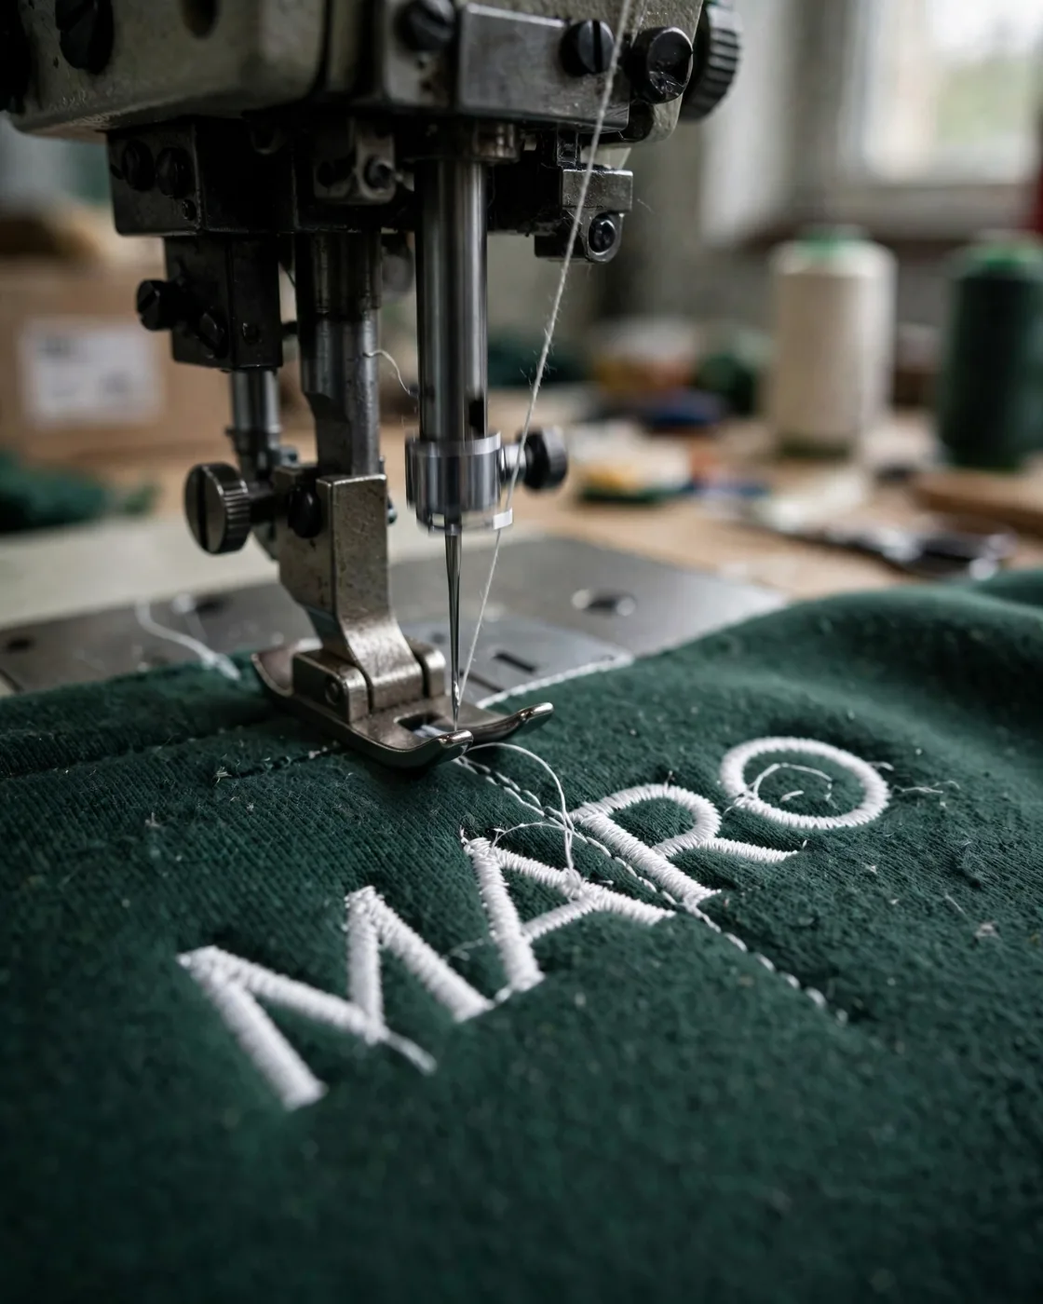
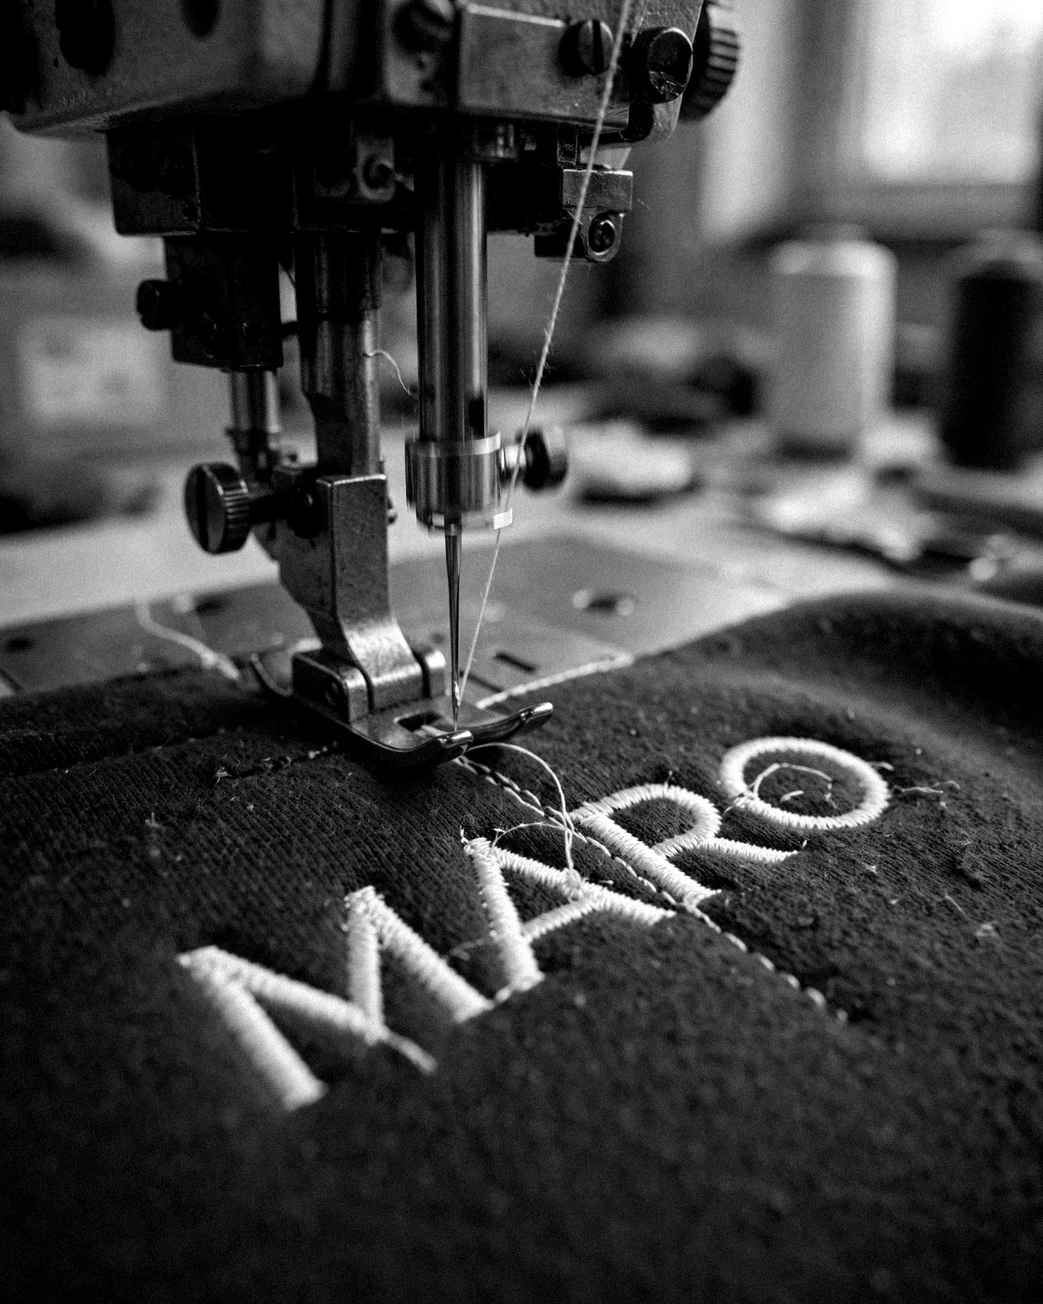
feat(brand): apertura con le Dolomiti, pagina riordinata a blocchi alternati; scene in bianco e nero, colore solo sui prodotti

diff --git a/storia.html b/storia.html
@@ -11,8 +11,8 @@
 <link rel="preconnect" href="https://fonts.googleapis.com">
 <link rel="preconnect" href="https://fonts.gstatic.com" crossorigin>
 <link rel="stylesheet" href="https://fonts.googleapis.com/css2?family=Anton&family=Archivo:wght@400;500;600;700&display=swap">
-<link rel="stylesheet" href="assets/css/maro.css?v=14">
-<script defer src="assets/js/maro.js?v=14"></script>
+<link rel="stylesheet" href="assets/css/maro.css?v=15">
+<script defer src="assets/js/maro.js?v=15"></script>
 </head>
 <body>
 <svg width="0" height="0" style="position:absolute" aria-hidden="true"><defs>
@@ -38,58 +38,55 @@
 </header>
 <main id="contenuto">
 
-<section class="st-apertura" aria-labelledby="st-titolo">
-  <div class="st-apertura-testo">
+<section class="st-hero" aria-labelledby="st-titolo">
+  <figure class="st-hero-foto"><img src="assets/foto/scena-dolomiti.webp" width="2048" height="1152" alt="Due ragazzi con felpe MARO di spalle davanti alle Dolomiti" fetchpriority="high" sizes="100vw"></figure>
+  <div class="st-hero-testo">
     <p class="occhiello">Il brand</p>
     <h1 id="st-titolo">Fly with<br>your mind.</h1>
     <p class="st-lead">MARO è streetwear nato a Milano. Capi essenziali, linee pulite, un segno che si riconosce da lontano. Per chi vive la città ogni giorno <strong>e tiene la testa alta.</strong></p>
   </div>
-  <div class="st-apertura-foto"><img src="assets/foto/storia-apertura-colonna.webp" width="767" height="1209" alt="La firma MARO su una colonna della metro di Milano" fetchpriority="high" sizes="(min-width: 960px) 40vw, 100vw"></div>
 </section>
 
-<section class="st-capitolo" aria-labelledby="st-c1">
-  <div class="st-num" aria-hidden="true">01</div>
+<section class="st-blocco st-chiaro" aria-labelledby="st-c1">
   <div class="st-testo">
+    <div class="st-num" aria-hidden="true">01</div>
     <h2 id="st-c1">Il segno</h2>
     <p>Una M, due ali. È il simbolo che firma ogni capo MARO: sul petto delle polo, sui cartellini, sulle etichette.</p>
     <p>Accanto vive la firma verticale, con le sue fiamme. La usiamo in grande, sulla schiena, dove deve farsi vedere.</p>
   </div>
-  <div class="st-confronto">
+  <div class="st-media st-confronto">
     <figure class="st-simbolo"><svg viewBox="0 0 200 150" role="img" aria-label="Il simbolo MARO: una M con due ali"><use href="#maro-simbolo"/></svg><figcaption>Il simbolo</figcaption></figure>
     <figure class="st-firma"><svg viewBox="0 0 200 560" role="img" aria-label="La firma verticale MARO con le fiamme"><use href="#maro-firma"/></svg><figcaption>La firma</figcaption></figure>
   </div>
 </section>
 
-<section class="st-manifesto" aria-labelledby="st-c2">
-  <div class="st-manifesto-testo">
-  <div class="st-num" aria-hidden="true">02</div>
-  <h2 id="st-c2">Testa alta.<br>Sempre.</h2>
-  <p>“Fly with your mind” non è una frase da stampare. È un modo di stare in città: lavoro, metro, notti lunghe, e la testa sempre un passo avanti. <strong>Le ali servono a questo.</strong></p>
-  </div>
-  <figure class="st-manifesto-foto"><img src="assets/foto/scena-orizzonte.webp" width="1120" height="1400" alt="Ragazzo con felpa MARO di spalle in cima a una montagna guarda il tramonto" loading="lazy" decoding="async" sizes="(min-width: 960px) 40vw, 100vw"></figure>
-</section>
-
-<section class="banda banda-brand" aria-label="Fly with your mind">
-  <figure><img src="assets/foto/scena-dolomiti.webp" width="2048" height="1152" alt="Due ragazzi con felpe MARO di spalle davanti alle Dolomiti al tramonto" loading="lazy" decoding="async" sizes="100vw"><figcaption>Fly with your mind</figcaption></figure>
-</section>
-
-<section class="st-capitolo st-inverso" aria-labelledby="st-c3">
-  <div class="st-num" aria-hidden="true">03</div>
+<section class="st-blocco st-scuro st-inverso" aria-labelledby="st-c2">
   <div class="st-testo">
+    <div class="st-num" aria-hidden="true">02</div>
+    <h2 id="st-c2">Testa alta.<br>Sempre.</h2>
+    <p>“Fly with your mind” non è una frase da stampare. È un modo di stare in città: lavoro, metro, notti lunghe, e la testa sempre un passo avanti. <strong>Le ali servono a questo.</strong></p>
+  </div>
+  <figure class="st-media"><img src="assets/foto/scena-orizzonte.webp" width="1120" height="1400" alt="Ragazzo con felpa MARO di spalle in cima a una montagna guarda l’orizzonte" loading="lazy" decoding="async" sizes="(min-width: 960px) 45vw, 100vw"></figure>
+</section>
+
+<section class="st-blocco st-grigio" aria-labelledby="st-c3">
+  <div class="st-testo">
+    <div class="st-num" aria-hidden="true">03</div>
     <h2 id="st-c3">Rispetto</h2>
     <p>La stretta di mano è il secondo segno di MARO. Due persone, un patto: rispetto per chi hai accanto.</p>
     <p>In strada vale più di qualsiasi logo. Per questo l’abbiamo stampata in grande, sulla schiena della felpa grigia.</p>
     <a class="link" href="felpa-stretta.html">Felpa Stretta di mano</a>
   </div>
-  <figure class="st-grafica"><img src="assets/foto/storia-stretta-di-mano.webp" width="1206" height="1345" alt="Due ragazzi si stringono la mano in un parco di Milano, uno indossa una felpa MARO" loading="lazy" decoding="async" sizes="(min-width: 960px) 40vw, 100vw"></figure>
+  <figure class="st-media"><img src="assets/foto/storia-stretta-di-mano.webp" width="1206" height="1345" alt="Due ragazzi si stringono la mano in un parco di Milano, uno indossa una felpa MARO" loading="lazy" decoding="async" sizes="(min-width: 960px) 45vw, 100vw"></figure>
 </section>
 
 <section class="st-valori" aria-labelledby="st-c4">
-  <div class="st-processo-testa"><div class="st-num" aria-hidden="true">04</div><h2 id="st-c4">Come lavoriamo</h2></div>
+  <div class="st-num" aria-hidden="true">04</div>
+  <h2 id="st-c4">Come lavoriamo</h2>
   <ul>
-    <li><figure><img src="assets/foto/scena-citta.webp" width="1120" height="1400" alt="Ragazzo con felpa verde MARO di spalle in un parco di Milano" loading="lazy" decoding="async" sizes="(min-width: 960px) 30vw, 100vw"></figure><span class="st-passo">01</span><h3>Disegnato a Milano</h3><p>Ogni grafica nasce in studio e si prova su ogni capo, da vicino e da lontano, prima di andare in produzione.</p></li>
-    <li><figure><img src="assets/foto/scena-ricamo-vicino.webp" width="1120" height="1400" alt="Una macchina ricama la scritta MARO su una felpa verde" loading="lazy" decoding="async" sizes="(min-width: 960px) 30vw, 100vw"></figure><span class="st-passo">02</span><h3>Ricamato dove conta</h3><p>Simbolo e firma sono ricamati sulle polo: restano nel tempo, lavaggio dopo lavaggio.</p></li>
-    <li><figure><img src="assets/foto/scena-showroom.webp" width="1120" height="1400" alt="Felpa verde, felpa blu e polo nera MARO appese in uno showroom scuro" loading="lazy" decoding="async" sizes="(min-width: 960px) 30vw, 100vw"></figure><span class="st-passo">03</span><h3>Solo drop</h3><p>Niente collezioni di stagione. Pochi pezzi, quando sono pronti. Quando finiscono, finiscono.</p></li>
+    <li><figure><img src="assets/foto/scena-citta.webp" width="1120" height="1400" alt="Ragazzo con felpa MARO di spalle in un parco di Milano" loading="lazy" decoding="async" sizes="(min-width: 960px) 30vw, 100vw"></figure><span class="st-passo">01</span><h3>Disegnato a Milano</h3><p>Ogni grafica nasce in studio e si prova su ogni capo, da vicino e da lontano, prima di andare in produzione.</p></li>
+    <li><figure><img src="assets/foto/scena-ricamo-vicino.webp" width="1120" height="1400" alt="Una macchina ricama la scritta MARO su una felpa" loading="lazy" decoding="async" sizes="(min-width: 960px) 30vw, 100vw"></figure><span class="st-passo">02</span><h3>Ricamato dove conta</h3><p>Simbolo e firma sono ricamati sulle polo: restano nel tempo, lavaggio dopo lavaggio.</p></li>
+    <li><figure><img src="assets/foto/scena-showroom.webp" width="1120" height="1400" alt="Felpe e polo MARO appese in uno showroom scuro" loading="lazy" decoding="async" sizes="(min-width: 960px) 30vw, 100vw"></figure><span class="st-passo">03</span><h3>Solo drop</h3><p>Niente collezioni di stagione. Pochi pezzi, quando sono pronti. Quando finiscono, finiscono.</p></li>
   </ul>
 </section>
 

diff --git a/_build/build.js b/_build/build.js
@@ -3,7 +3,7 @@ const fs = require('fs'), path = require('path');
 const ROOT = path.resolve(__dirname, '..');
 const CATALOGO = require('./catalogo');
 const MISURE = require('./foto-misure.json');
-const V = '14'; // versione di css/js: aumentarla a ogni modifica pubblicata
+const V = '15'; // versione di css/js: aumentarla a ogni modifica pubblicata
 
 // controllo: ogni foto in un solo punto del sito (le foto dei capi appartengono al loro capo)
 const usate = new Map();
@@ -363,58 +363,55 @@ ${domanda('Quando ricevo il rimborso?', 'Entro 14 giorni da quando il capo ci ar
 // ---------- STORIA (testi provvisori: da completare con le parole del fondatore) ----------
 function storia() {
   const corpo = `
-<section class="st-apertura" aria-labelledby="st-titolo">
-  <div class="st-apertura-testo">
+<section class="st-hero" aria-labelledby="st-titolo">
+  <figure class="st-hero-foto">${img('scena-dolomiti', 'Due ragazzi con felpe MARO di spalle davanti alle Dolomiti', { dove: 'brand apertura', lazy: false, sizes: '100vw' })}</figure>
+  <div class="st-hero-testo">
     <p class="occhiello">Il brand</p>
     <h1 id="st-titolo">Fly with<br>your mind.</h1>
     <p class="st-lead">MARO è streetwear nato a Milano. Capi essenziali, linee pulite, un segno che si riconosce da lontano. Per chi vive la città ogni giorno <strong>e tiene la testa alta.</strong></p>
   </div>
-  <div class="st-apertura-foto">${img('storia-apertura-colonna', 'La firma MARO su una colonna della metro di Milano', { dove: 'storia apertura', lazy: false, sizes: '(min-width: 960px) 40vw, 100vw' })}</div>
 </section>
 
-<section class="st-capitolo" aria-labelledby="st-c1">
-  <div class="st-num" aria-hidden="true">01</div>
+<section class="st-blocco st-chiaro" aria-labelledby="st-c1">
   <div class="st-testo">
+    <div class="st-num" aria-hidden="true">01</div>
     <h2 id="st-c1">Il segno</h2>
     <p>Una M, due ali. È il simbolo che firma ogni capo MARO: sul petto delle polo, sui cartellini, sulle etichette.</p>
     <p>Accanto vive la firma verticale, con le sue fiamme. La usiamo in grande, sulla schiena, dove deve farsi vedere.</p>
   </div>
-  <div class="st-confronto">
+  <div class="st-media st-confronto">
     <figure class="st-simbolo"><svg viewBox="0 0 200 150" role="img" aria-label="Il simbolo MARO: una M con due ali"><use href="#maro-simbolo"/></svg><figcaption>Il simbolo</figcaption></figure>
     <figure class="st-firma"><svg viewBox="0 0 200 560" role="img" aria-label="La firma verticale MARO con le fiamme"><use href="#maro-firma"/></svg><figcaption>La firma</figcaption></figure>
   </div>
 </section>
 
-<section class="st-manifesto" aria-labelledby="st-c2">
-  <div class="st-manifesto-testo">
-  <div class="st-num" aria-hidden="true">02</div>
-  <h2 id="st-c2">Testa alta.<br>Sempre.</h2>
-  <p>“Fly with your mind” non è una frase da stampare. È un modo di stare in città: lavoro, metro, notti lunghe, e la testa sempre un passo avanti. <strong>Le ali servono a questo.</strong></p>
-  </div>
-  <figure class="st-manifesto-foto">${img('scena-orizzonte', 'Ragazzo con felpa MARO di spalle in cima a una montagna guarda il tramonto', { dove: 'brand manifesto', sizes: '(min-width: 960px) 40vw, 100vw' })}</figure>
-</section>
-
-<section class="banda banda-brand" aria-label="Fly with your mind">
-  <figure>${img('scena-dolomiti', 'Due ragazzi con felpe MARO di spalle davanti alle Dolomiti al tramonto', { dove: 'brand banda', sizes: '100vw' })}<figcaption>Fly with your mind</figcaption></figure>
-</section>
-
-<section class="st-capitolo st-inverso" aria-labelledby="st-c3">
-  <div class="st-num" aria-hidden="true">03</div>
+<section class="st-blocco st-scuro st-inverso" aria-labelledby="st-c2">
   <div class="st-testo">
+    <div class="st-num" aria-hidden="true">02</div>
+    <h2 id="st-c2">Testa alta.<br>Sempre.</h2>
+    <p>“Fly with your mind” non è una frase da stampare. È un modo di stare in città: lavoro, metro, notti lunghe, e la testa sempre un passo avanti. <strong>Le ali servono a questo.</strong></p>
+  </div>
+  <figure class="st-media">${img('scena-orizzonte', 'Ragazzo con felpa MARO di spalle in cima a una montagna guarda l’orizzonte', { dove: 'brand testa alta', sizes: '(min-width: 960px) 45vw, 100vw' })}</figure>
+</section>
+
+<section class="st-blocco st-grigio" aria-labelledby="st-c3">
+  <div class="st-testo">
+    <div class="st-num" aria-hidden="true">03</div>
     <h2 id="st-c3">Rispetto</h2>
     <p>La stretta di mano è il secondo segno di MARO. Due persone, un patto: rispetto per chi hai accanto.</p>
     <p>In strada vale più di qualsiasi logo. Per questo l’abbiamo stampata in grande, sulla schiena della felpa grigia.</p>
     <a class="link" href="felpa-stretta.html">Felpa Stretta di mano</a>
   </div>
-  <figure class="st-grafica">${img('storia-stretta-di-mano', 'Due ragazzi si stringono la mano in un parco di Milano, uno indossa una felpa MARO', { dove: 'storia rispetto', sizes: '(min-width: 960px) 40vw, 100vw' })}</figure>
+  <figure class="st-media">${img('storia-stretta-di-mano', 'Due ragazzi si stringono la mano in un parco di Milano, uno indossa una felpa MARO', { dove: 'brand rispetto', sizes: '(min-width: 960px) 45vw, 100vw' })}</figure>
 </section>
 
 <section class="st-valori" aria-labelledby="st-c4">
-  <div class="st-processo-testa"><div class="st-num" aria-hidden="true">04</div><h2 id="st-c4">Come lavoriamo</h2></div>
+  <div class="st-num" aria-hidden="true">04</div>
+  <h2 id="st-c4">Come lavoriamo</h2>
   <ul>
-    <li><figure>${img('scena-citta', 'Ragazzo con felpa verde MARO di spalle in un parco di Milano', { dove: 'brand lavoro', sizes: '(min-width: 960px) 30vw, 100vw' })}</figure><span class="st-passo">01</span><h3>Disegnato a Milano</h3><p>Ogni grafica nasce in studio e si prova su ogni capo, da vicino e da lontano, prima di andare in produzione.</p></li>
-    <li><figure>${img('scena-ricamo-vicino', 'Una macchina ricama la scritta MARO su una felpa verde', { dove: 'brand lavoro', sizes: '(min-width: 960px) 30vw, 100vw' })}</figure><span class="st-passo">02</span><h3>Ricamato dove conta</h3><p>Simbolo e firma sono ricamati sulle polo: restano nel tempo, lavaggio dopo lavaggio.</p></li>
-    <li><figure>${img('scena-showroom', 'Felpa verde, felpa blu e polo nera MARO appese in uno showroom scuro', { dove: 'brand lavoro', sizes: '(min-width: 960px) 30vw, 100vw' })}</figure><span class="st-passo">03</span><h3>Solo drop</h3><p>Niente collezioni di stagione. Pochi pezzi, quando sono pronti. Quando finiscono, finiscono.</p></li>
+    <li><figure>${img('scena-citta', 'Ragazzo con felpa MARO di spalle in un parco di Milano', { dove: 'brand lavoro', sizes: '(min-width: 960px) 30vw, 100vw' })}</figure><span class="st-passo">01</span><h3>Disegnato a Milano</h3><p>Ogni grafica nasce in studio e si prova su ogni capo, da vicino e da lontano, prima di andare in produzione.</p></li>
+    <li><figure>${img('scena-ricamo-vicino', 'Una macchina ricama la scritta MARO su una felpa', { dove: 'brand lavoro', sizes: '(min-width: 960px) 30vw, 100vw' })}</figure><span class="st-passo">02</span><h3>Ricamato dove conta</h3><p>Simbolo e firma sono ricamati sulle polo: restano nel tempo, lavaggio dopo lavaggio.</p></li>
+    <li><figure>${img('scena-showroom', 'Felpe e polo MARO appese in uno showroom scuro', { dove: 'brand lavoro', sizes: '(min-width: 960px) 30vw, 100vw' })}</figure><span class="st-passo">03</span><h3>Solo drop</h3><p>Niente collezioni di stagione. Pochi pezzi, quando sono pronti. Quando finiscono, finiscono.</p></li>
   </ul>
 </section>
 

diff --git a/_build/foto.js b/_build/foto.js
@@ -43,15 +43,14 @@ const LAVORI = [
   { out: 'categoria-polo', src: 'mockup-ai/polo-nere-tre.jpg', crop: [1330, 50, 620, 775] },
   { out: 'categoria-felpe', src: 'foto-reali/felpa-grigia-parete-verde.jpg', crop: [65, 0, 1076, 1345] },
   // pagina Storia (bianco e nero con grana, proporzioni originali; lo schizzo resta a colori)
-  { out: 'storia-apertura-colonna', src: 'mockup-ai/metro-insegna-colonna.jpg', bn: true },
   // scene (set 5 del 12/10): campagna e pagina del brand, a colori, senza tagli
-  { out: 'scena-ricamo-mani', src: 'foto-set-5-2026-10-12/845684221_1655451425975308_3820682003388145130_n.webp' },
-  { out: 'scena-capi-maro', src: 'foto-set-5-2026-10-12/846966136_2610599519436733_3385366467222422541_n.webp' },
-  { out: 'scena-orizzonte', src: 'foto-set-5-2026-10-12/846053658_1783488912923974_9001021024052174187_n.webp' },
-  { out: 'scena-dolomiti', src: 'foto-set-5-2026-10-12/845962368_1854137572601714_822437747464123275_n.webp', max: 2048, q: 0.86 },
-  { out: 'scena-citta', src: 'foto-set-5-2026-10-12/846613319_4604241063165391_3335941884249520016_n.webp' },
-  { out: 'scena-ricamo-vicino', src: 'foto-set-5-2026-10-12/846671117_924186993887815_3303255480979063179_n.webp' },
-  { out: 'scena-showroom', src: 'foto-set-5-2026-10-12/840312014_28569449039377509_7023473326715691606_n.webp' },
+  { out: 'scena-ricamo-mani', src: 'foto-set-5-2026-10-12/845684221_1655451425975308_3820682003388145130_n.webp', bn: true },
+  { out: 'scena-capi-maro', src: 'foto-set-5-2026-10-12/846966136_2610599519436733_3385366467222422541_n.webp', bn: true },
+  { out: 'scena-orizzonte', src: 'foto-set-5-2026-10-12/846053658_1783488912923974_9001021024052174187_n.webp', bn: true },
+  { out: 'scena-dolomiti', src: 'foto-set-5-2026-10-12/845962368_1854137572601714_822437747464123275_n.webp', max: 2048, q: 0.86, bn: true },
+  { out: 'scena-citta', src: 'foto-set-5-2026-10-12/846613319_4604241063165391_3335941884249520016_n.webp', bn: true },
+  { out: 'scena-ricamo-vicino', src: 'foto-set-5-2026-10-12/846671117_924186993887815_3303255480979063179_n.webp', bn: true },
+  { out: 'scena-showroom', src: 'foto-set-5-2026-10-12/840312014_28569449039377509_7023473326715691606_n.webp', bn: true },
   // campagna, storia, lookbook (bianco e nero con grana, proporzioni originali)
   { out: 'campagna-due-ragazzi', src: 'foto-reali/due-ragazzi-parco-ringhiera.jpg', bn: true },
   { out: 'storia-stretta-di-mano', src: 'foto-reali/stretta-di-mano-parco.jpg', bn: true },

diff --git a/assets/css/maro.css b/assets/css/maro.css
@@ -372,3 +372,30 @@ details > p { margin: 0 0 20px; }
 @media (max-width: 959px) {
   .iscriviti, .st-manifesto { grid-template-columns: 1fr; }
 }
+
+/* pagina del brand v3: apertura a tutta larghezza + blocchi alternati */
+.st-hero { position: relative; background: var(--nero); color: var(--bianco); }
+.st-hero-foto { margin: 0; position: relative; }
+.st-hero-foto img { width: 100%; }
+.st-hero-foto::after { content: ''; position: absolute; inset: 0; background: linear-gradient(90deg, rgba(0,0,0,.65) 0%, rgba(0,0,0,.25) 45%, rgba(0,0,0,0) 70%), linear-gradient(180deg, rgba(0,0,0,0) 45%, rgba(0,0,0,.55) 100%); }
+.st-hero-testo { position: absolute; z-index: 1; left: var(--lato); bottom: clamp(28px, 5vw, 72px); max-width: min(620px, 50%); }
+.st-hero .occhiello { font-size: 15px; font-weight: 700; letter-spacing: .14em; text-transform: uppercase; margin: 0 0 14px; }
+.st-hero h1 { font: 400 clamp(56px, 8vw, 132px)/.88 var(--titoli); text-transform: uppercase; text-shadow: 0 2px 30px rgba(0,0,0,.4); }
+.st-hero .st-lead { margin-top: 20px; text-shadow: 0 1px 14px rgba(0,0,0,.6); }
+.st-blocco { display: grid; grid-template-columns: minmax(0, 1fr) minmax(0, 1fr); grid-template-areas: 'testo media'; gap: clamp(28px, 5vw, 80px); align-items: center; padding: clamp(56px, 8vw, 120px) var(--lato); }
+.st-blocco.st-inverso { grid-template-areas: 'media testo'; }
+.st-blocco .st-testo { grid-area: testo; }
+.st-blocco .st-media { grid-area: media; margin: 0; }
+.st-blocco .st-media img { width: 100%; }
+.st-chiaro { background: var(--bianco); }
+.st-scuro { background: var(--nero); color: var(--bianco); }
+.st-scuro .st-num { color: #9a9a9a; }
+.st-scuro .st-testo p { color: #e6e6e6; }
+.st-scuro strong { color: var(--bianco); }
+.st-grigio { background: var(--grigio); }
+.st-valori > h2 { margin-bottom: 28px; }
+@media (max-width: 959px) {
+  .st-hero-testo { position: static; max-width: none; padding: 28px var(--lato) 40px; }
+  .st-hero-foto::after { display: none; }
+  .st-blocco, .st-blocco.st-inverso { grid-template-columns: 1fr; grid-template-areas: 'testo' 'media'; }
+}

diff --git a/index.html b/index.html
@@ -11,8 +11,8 @@
 <link rel="preconnect" href="https://fonts.googleapis.com">
 <link rel="preconnect" href="https://fonts.gstatic.com" crossorigin>
 <link rel="stylesheet" href="https://fonts.googleapis.com/css2?family=Anton&family=Archivo:wght@400;500;600;700&display=swap">
-<link rel="stylesheet" href="assets/css/maro.css?v=14">
-<script defer src="assets/js/maro.js?v=14"></script>
+<link rel="stylesheet" href="assets/css/maro.css?v=15">
+<script defer src="assets/js/maro.js?v=15"></script>
 </head>
 <body class="home">
 <svg width="0" height="0" style="position:absolute" aria-hidden="true"><defs>

diff --git a/aiuto.html b/aiuto.html
@@ -11,8 +11,8 @@
 <link rel="preconnect" href="https://fonts.googleapis.com">
 <link rel="preconnect" href="https://fonts.gstatic.com" crossorigin>
 <link rel="stylesheet" href="https://fonts.googleapis.com/css2?family=Anton&family=Archivo:wght@400;500;600;700&display=swap">
-<link rel="stylesheet" href="assets/css/maro.css?v=14">
-<script defer src="assets/js/maro.js?v=14"></script>
+<link rel="stylesheet" href="assets/css/maro.css?v=15">
+<script defer src="assets/js/maro.js?v=15"></script>
 </head>
 <body>
 <svg width="0" height="0" style="position:absolute" aria-hidden="true"><defs>

diff --git a/felpa-firma.html b/felpa-firma.html
@@ -11,8 +11,8 @@
 <link rel="preconnect" href="https://fonts.googleapis.com">
 <link rel="preconnect" href="https://fonts.gstatic.com" crossorigin>
 <link rel="stylesheet" href="https://fonts.googleapis.com/css2?family=Anton&family=Archivo:wght@400;500;600;700&display=swap">
-<link rel="stylesheet" href="assets/css/maro.css?v=14">
-<script defer src="assets/js/maro.js?v=14"></script>
+<link rel="stylesheet" href="assets/css/maro.css?v=15">
+<script defer src="assets/js/maro.js?v=15"></script>
 </head>
 <body>
 <svg width="0" height="0" style="position:absolute" aria-hidden="true"><defs>

diff --git a/felpa-stretta.html b/felpa-stretta.html
@@ -11,8 +11,8 @@
 <link rel="preconnect" href="https://fonts.googleapis.com">
 <link rel="preconnect" href="https://fonts.gstatic.com" crossorigin>
 <link rel="stylesheet" href="https://fonts.googleapis.com/css2?family=Anton&family=Archivo:wght@400;500;600;700&display=swap">
-<link rel="stylesheet" href="assets/css/maro.css?v=14">
-<script defer src="assets/js/maro.js?v=14"></script>
+<link rel="stylesheet" href="assets/css/maro.css?v=15">
+<script defer src="assets/js/maro.js?v=15"></script>
 </head>
 <body>
 <svg width="0" height="0" style="position:absolute" aria-hidden="true"><defs>

diff --git a/felpa-verticale.html b/felpa-verticale.html
@@ -11,8 +11,8 @@
 <link rel="preconnect" href="https://fonts.googleapis.com">
 <link rel="preconnect" href="https://fonts.gstatic.com" crossorigin>
 <link rel="stylesheet" href="https://fonts.googleapis.com/css2?family=Anton&family=Archivo:wght@400;500;600;700&display=swap">
-<link rel="stylesheet" href="assets/css/maro.css?v=14">
-<script defer src="assets/js/maro.js?v=14"></script>
+<link rel="stylesheet" href="assets/css/maro.css?v=15">
+<script defer src="assets/js/maro.js?v=15"></script>
 </head>
 <body>
 <svg width="0" height="0" style="position:absolute" aria-hidden="true"><defs>

diff --git a/polo-jacquard.html b/polo-jacquard.html
@@ -11,8 +11,8 @@
 <link rel="preconnect" href="https://fonts.googleapis.com">
 <link rel="preconnect" href="https://fonts.gstatic.com" crossorigin>
 <link rel="stylesheet" href="https://fonts.googleapis.com/css2?family=Anton&family=Archivo:wght@400;500;600;700&display=swap">
-<link rel="stylesheet" href="assets/css/maro.css?v=14">
-<script defer src="assets/js/maro.js?v=14"></script>
+<link rel="stylesheet" href="assets/css/maro.css?v=15">
+<script defer src="assets/js/maro.js?v=15"></script>
 </head>
 <body>
 <svg width="0" height="0" style="position:absolute" aria-hidden="true"><defs>

diff --git a/polo-linee.html b/polo-linee.html
@@ -11,8 +11,8 @@
 <link rel="preconnect" href="https://fonts.googleapis.com">
 <link rel="preconnect" href="https://fonts.gstatic.com" crossorigin>
 <link rel="stylesheet" href="https://fonts.googleapis.com/css2?family=Anton&family=Archivo:wght@400;500;600;700&display=swap">
-<link rel="stylesheet" href="assets/css/maro.css?v=14">
-<script defer src="assets/js/maro.js?v=14"></script>
+<link rel="stylesheet" href="assets/css/maro.css?v=15">
+<script defer src="assets/js/maro.js?v=15"></script>
 </head>
 <body>
 <svg width="0" height="0" style="position:absolute" aria-hidden="true"><defs>

diff --git a/polo-tricolore.html b/polo-tricolore.html
@@ -11,8 +11,8 @@
 <link rel="preconnect" href="https://fonts.googleapis.com">
 <link rel="preconnect" href="https://fonts.gstatic.com" crossorigin>
 <link rel="stylesheet" href="https://fonts.googleapis.com/css2?family=Anton&family=Archivo:wght@400;500;600;700&display=swap">
-<link rel="stylesheet" href="assets/css/maro.css?v=14">
-<script defer src="assets/js/maro.js?v=14"></script>
+<link rel="stylesheet" href="assets/css/maro.css?v=15">
+<script defer src="assets/js/maro.js?v=15"></script>
 </head>
 <body>
 <svg width="0" height="0" style="position:absolute" aria-hidden="true"><defs>
